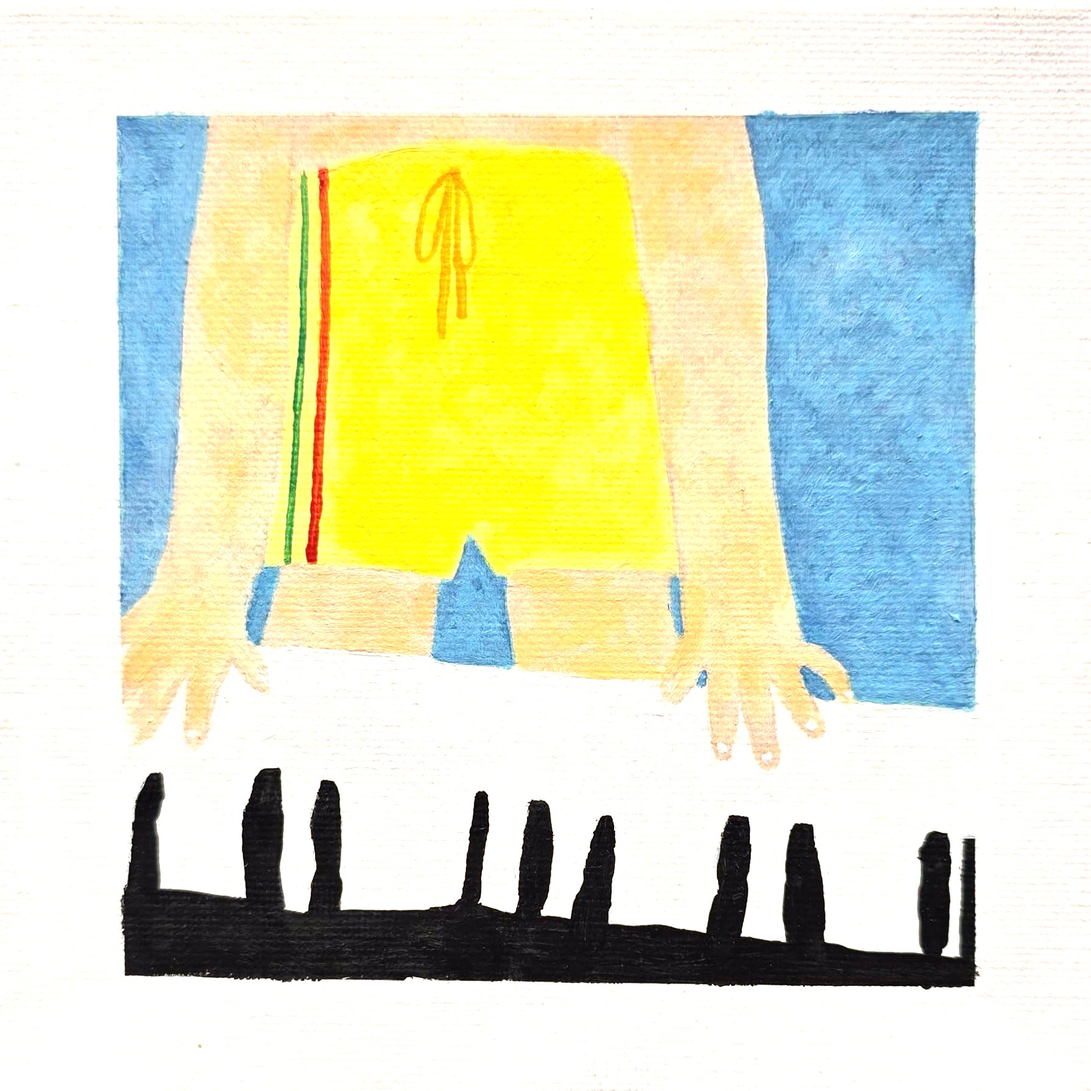
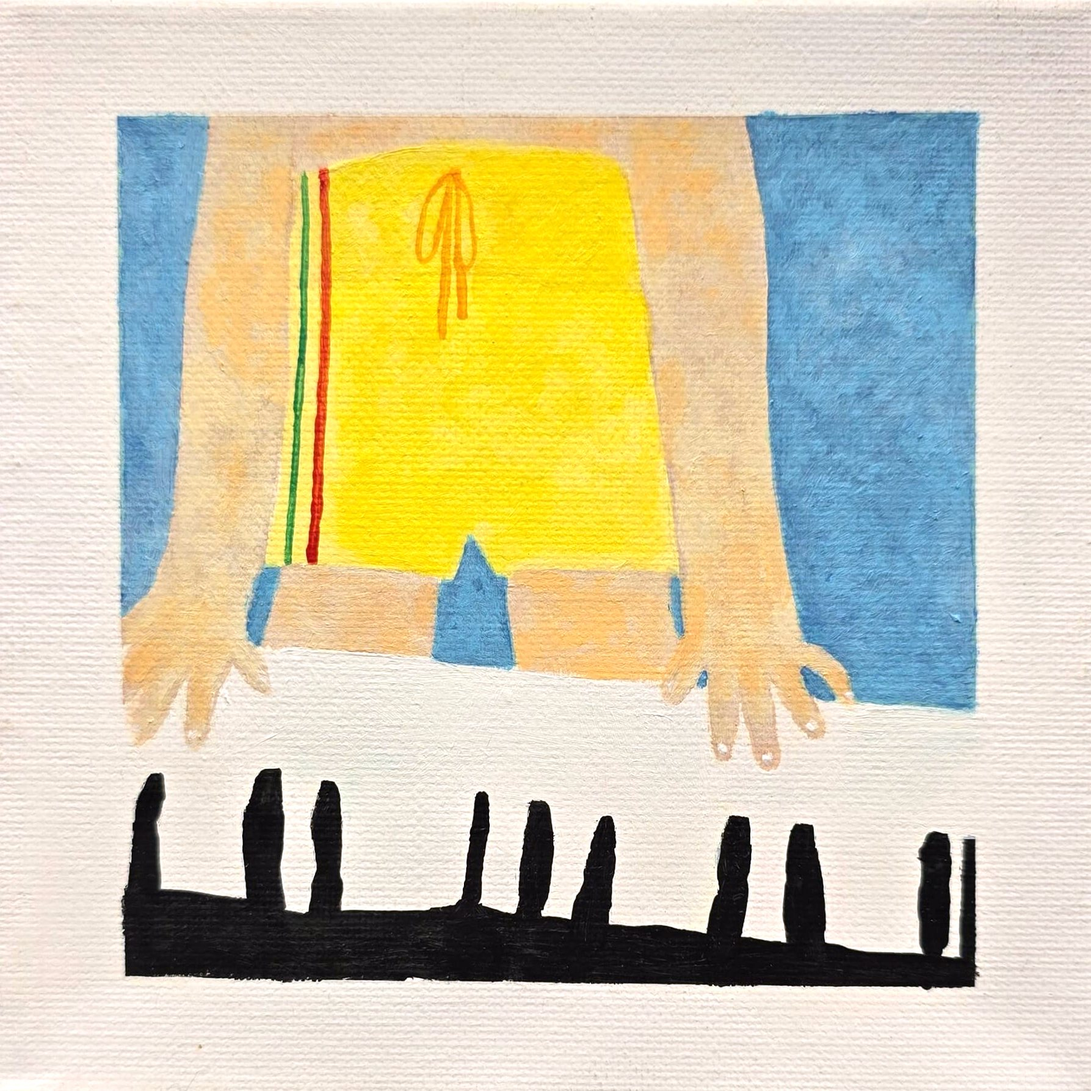
Tone down piano painting

diff --git a/index.html b/index.html
@@ -138,7 +138,7 @@ dialog::backdrop { background: var(--bg) }
 </dialog>
 
 <script>
-const V = "20261111c";
+const V = "20261111d";
 const WORKS = [
   { id: "n0002", t: "New series, no. 1", m: "Acrylic on canvas", s: "15 × 15 cm", c: "new" },
   { id: "n0003", t: "New series, no. 2", m: "Acrylic on canvas", s: "15 × 15 cm", c: "new" },
